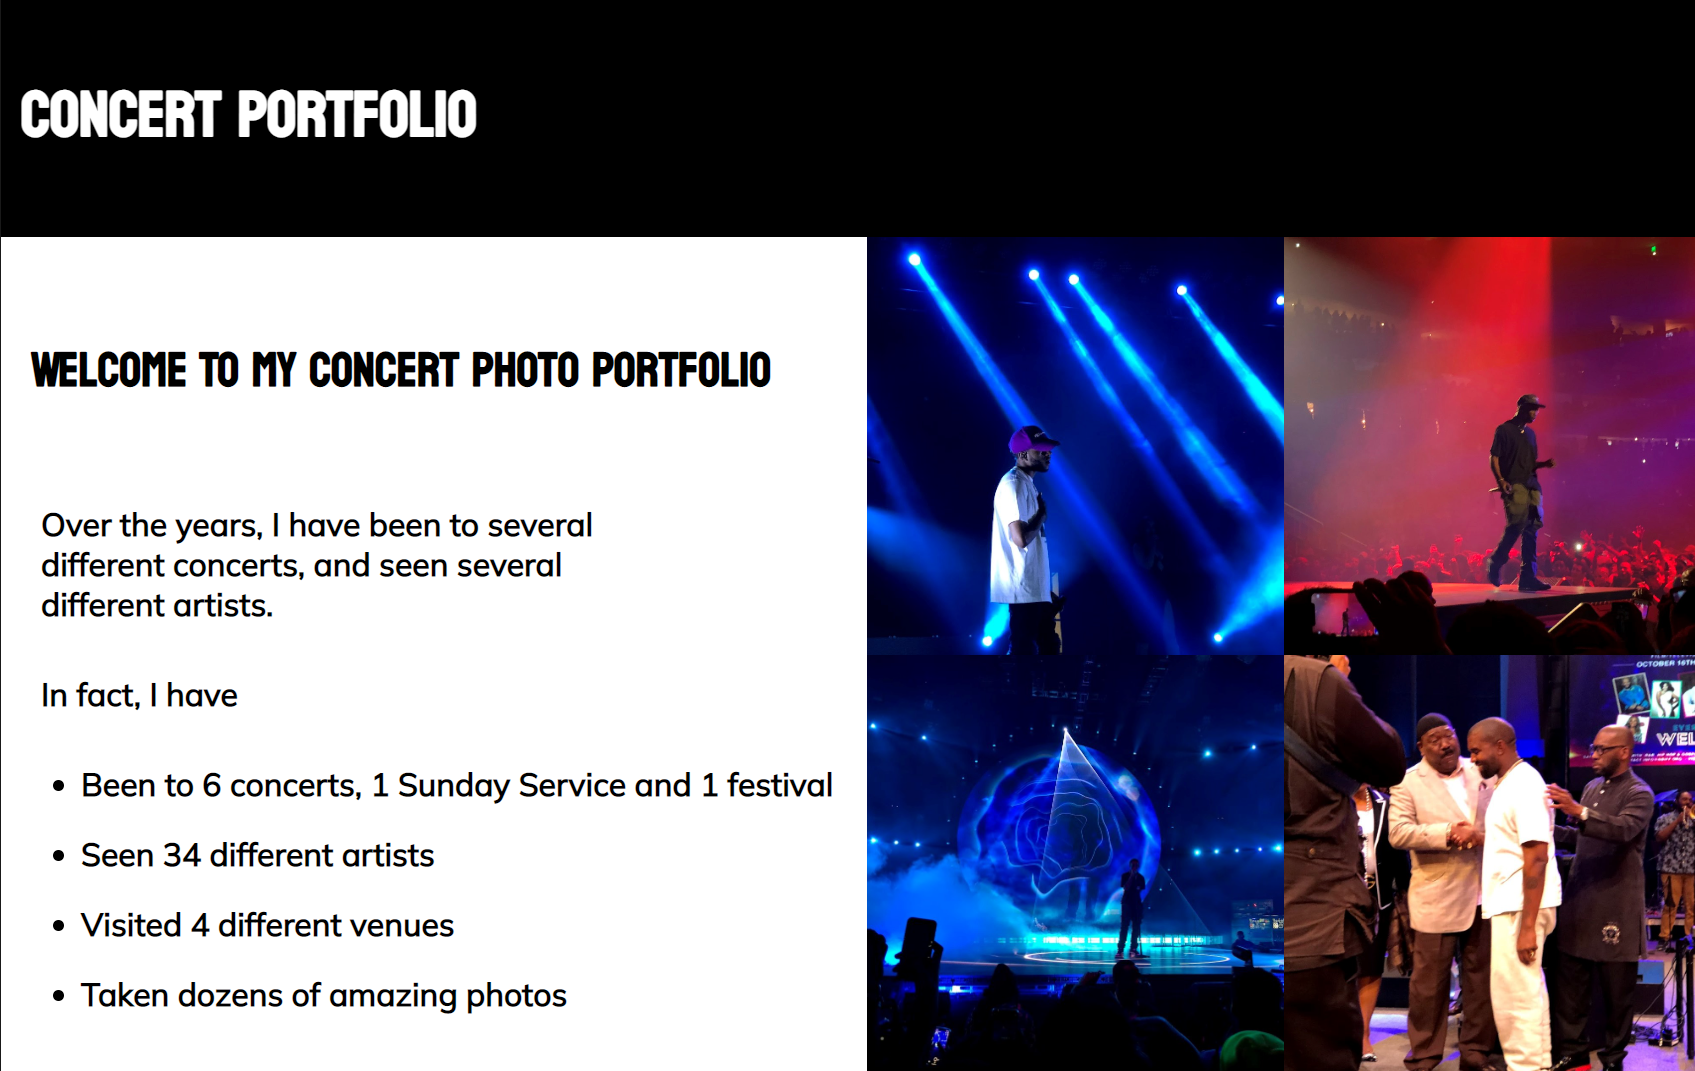
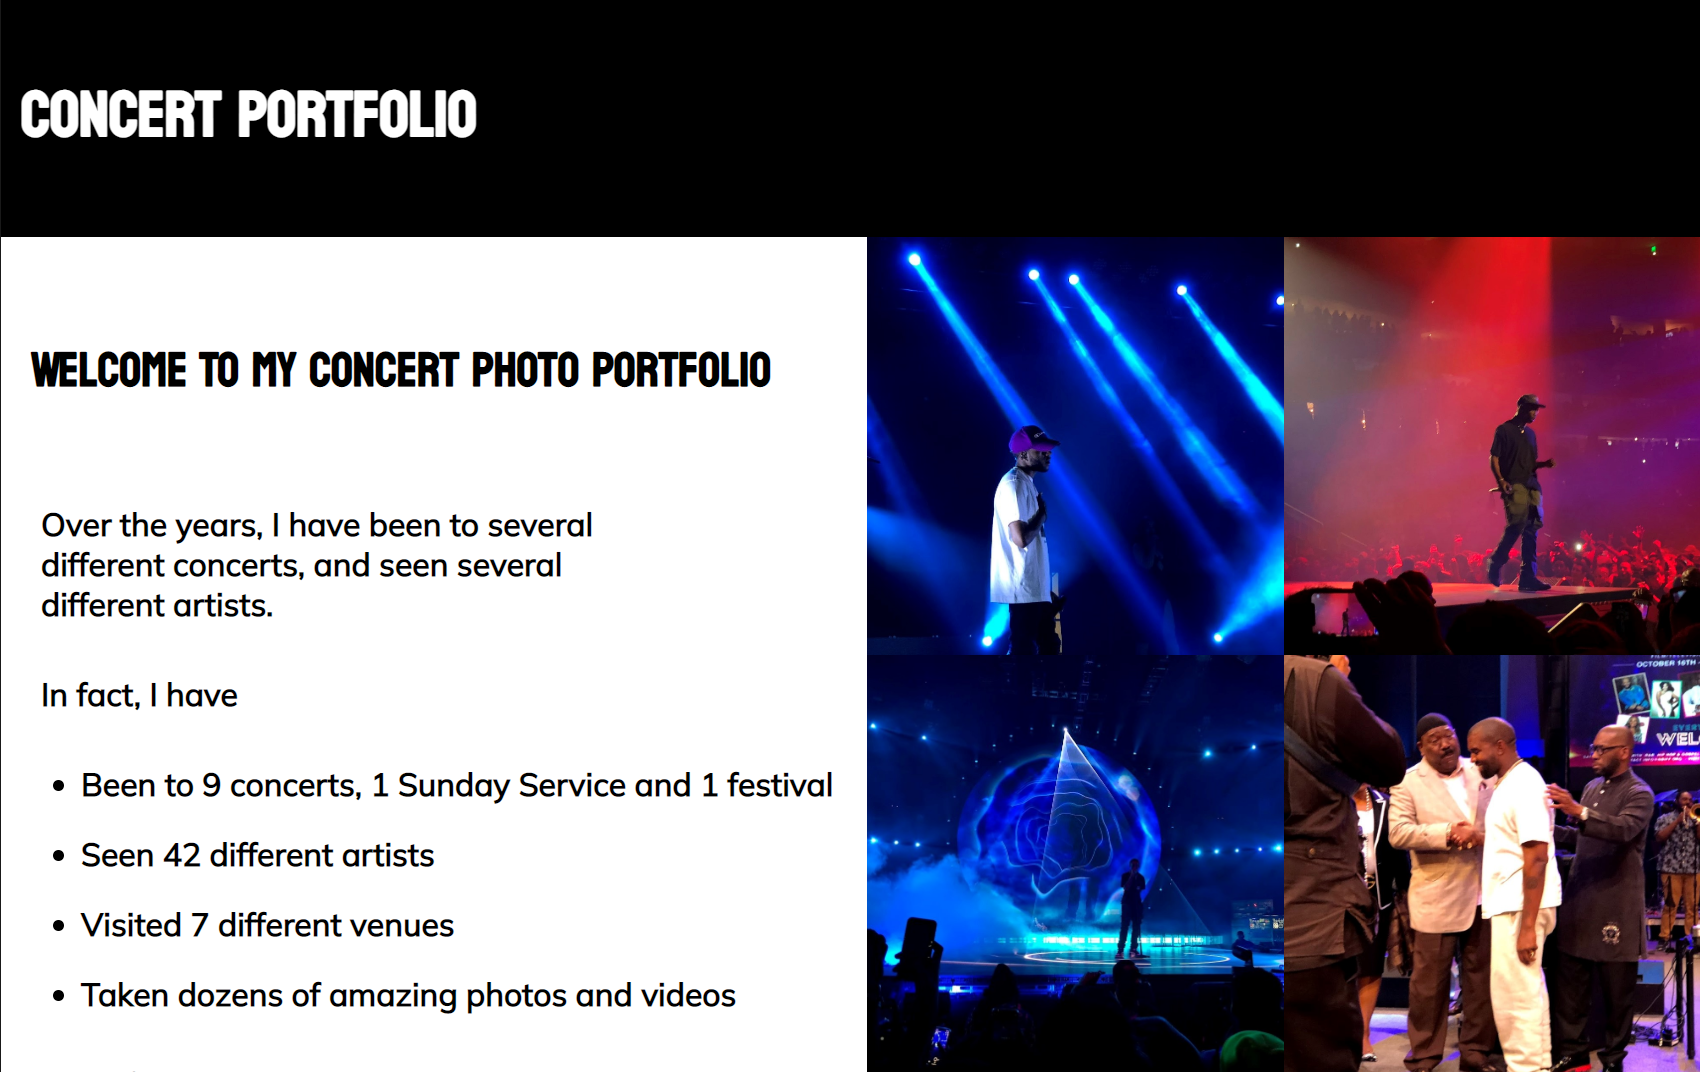
Added images and edited homepage

diff --git a/src/pages/Home.js b/src/pages/Home.js
@@ -15,10 +15,10 @@ const Home = () => {
             <h2>In fact, I have</h2>
 
             <ul>
-              <li>Been to 6 concerts, 1 Sunday Service and 1 festival</li>
-              <li>Seen 34 different artists</li>
-              <li>Visited 4 different venues</li>
-              <li>Taken dozens of amazing photos</li>
+              <li>Been to 9 concerts, 1 Sunday Service and 1 festival</li>
+              <li>Seen 42 different artists</li>
+              <li>Visited 7 different venues</li>
+              <li>Taken dozens of amazing photos and videos</li>
             </ul>
 
             <h2>Therefore, I have created this website, which can help showcase the moments I've captured during these musical events.</h2>
